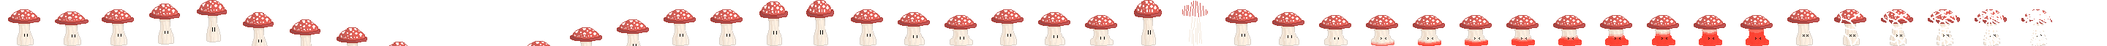
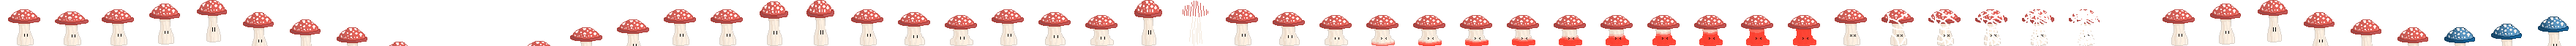
Finished bossfight
All the animations are now in place. There was a bug with the hover that was fixed (still have no clue why it was caused, but it's fine now, soo...)

Also put some band-aids on the unsolved bugs. For the enemies flying OOB, they now should teleport back in. For the enemy colliders getting displaced, I center them every frame. For the player's collider working, I turn it off every frame they do not have the dash.

These are all temporary solutions but I don't want to waste the time finding the bug sources so I'll just do this for now.

diff --git a/src/assets.rs b/src/assets.rs
@@ -337,7 +337,7 @@ impl BossAssets {
         anims.insert(idle_anim.name.to_string(), idle_anim.clone());
 
         // BOOM
-        let boom_atlas = TextureAtlas::from_grid(sheet.clone(), SIZE, 12, 1, None, Some(Vec2::new(26.0, 0.0) * SIZE));
+        let boom_atlas = TextureAtlas::from_grid(sheet.clone(), SIZE, 13, 1, None, Some(Vec2::new(26.0, 0.0) * SIZE));
         let boom_atlas_handle = texture_atlases.add(boom_atlas);
         let mut boom_anim = Animation::new("BOOM".to_string(), boom_atlas_handle, 0.1);
         boom_anim.repeating = false;
@@ -372,17 +372,32 @@ impl BossAssets {
         anims.insert(fly_anim.name.to_string(), fly_anim.clone()); 
         
         // LEAP
-        let leap_atlas = TextureAtlas::from_grid(sheet.clone(), SIZE, 3, 1, None, Some(Vec2::new(21.0, 0.0) * SIZE));
+        let leap_atlas = TextureAtlas::from_grid(sheet.clone(), SIZE, 4, 1, None, Some(Vec2::new(21.0, 0.0) * SIZE));
         let leap_atlas_handle = texture_atlases.add(leap_atlas);
         let mut leap_anim = Animation::new("LEAP".to_string(), leap_atlas_handle, 0.1);
         leap_anim.repeating = false;
         anims.insert(leap_anim.name.to_string(), leap_anim.clone());
 
         // DEATH
-        let death_atlas = TextureAtlas::from_grid(sheet.clone(), SIZE, 7, 1, None, Some(Vec2::new(38.0, 0.0) * SIZE));
+        let death_atlas = TextureAtlas::from_grid(sheet.clone(), SIZE, 7, 1, None, Some(Vec2::new(39.0, 0.0) * SIZE));
         let death_atlas_handle = texture_atlases.add(death_atlas);
         let death_anim = Animation::new("DEATH".to_string(), death_atlas_handle, 0.1);
         anims.insert(death_anim.name.to_string(), death_anim.clone());
+
+
+        // SUMMON
+        let summon_atlas = TextureAtlas::from_grid(sheet.clone(), SIZE, 6, 1, None, Some(Vec2::new(46.0, 0.0) * SIZE));
+        let summon_atlas_handle = texture_atlases.add(summon_atlas);
+        let mut summon_anim = Animation::new("SUMMON".to_string(), summon_atlas_handle, 0.1);
+        summon_anim.repeating = false; 
+        anims.insert(summon_anim.name.to_string(), summon_anim.clone());
+
+        // VULNERABLE
+        let vulnerable_atlas = TextureAtlas::from_grid(sheet.clone(), SIZE, 3, 1, None, Some(Vec2::new(52.0, 0.0) * SIZE));
+        let vulnerable_atlas_handle = texture_atlases.add(vulnerable_atlas);
+        let mut vulnerable_anim = Animation::new("VULNERABLE".to_string(), vulnerable_atlas_handle, 0.2);
+        vulnerable_anim.repeating = false;
+        anims.insert(vulnerable_anim.name.to_string(), vulnerable_anim.clone());
 
         assets.anims = AnimationMap::new(anims);
     }

diff --git a/src/bossfight/abilities/hover.rs b/src/bossfight/abilities/hover.rs
@@ -8,6 +8,7 @@ use crate::combat::Immunity;
 use crate::enemies::Enemy;
 use crate::player::Player;
 use crate::state::GameState;
+use crate::util::{Facing, FacingX};
 
 #[derive(Component, Debug, Clone)]
 pub struct HoverAbility;
@@ -53,6 +54,7 @@ fn hover_update(
         &Boss,
         &mut Immunity,
         &mut Enemy,
+        &mut Facing,
         &BossConfig
     )>
 ) {
@@ -62,7 +64,7 @@ fn hover_update(
 
 
     let player_pos = p.single().translation();
-    let (entity, boss_tf, boss, mut immunity, mut enemy, cfg) = q.single_mut();
+    let (entity, boss_tf, boss, mut immunity, mut enemy, mut facing, cfg) = q.single_mut();
     let boss_pos = boss_tf.translation();
 
     if boss.current_move() != EnragedAttackMove::Hover {
@@ -71,13 +73,19 @@ fn hover_update(
 
     let mut threshold = BOSS_HOVER_CMP_THRESHOLD;
 
-    if player_pos.x < cfg.charge_left.x + BOSS_HALF_SIZE.x
-        || player_pos.x > cfg.charge_right.x + BOSS_HALF_SIZE.x {
-        threshold += BOSS_HALF_SIZE.x;
+    let diff = player_pos.x - boss_pos.x;
+    enemy.vel.x = Vec2::new(diff, 0.0).normalize_or_zero().x * BOSS_HOVER_SPEED;
+
+    if enemy.vel.x < 0.0 {
+        facing.x = FacingX::Left;
+    } else if enemy.vel.x > 0.0 {
+        facing.x = FacingX::Right;
     }
 
-    let diff = player_pos.x - boss_pos.x;
-    enemy.vel.x = Vec2::new(diff, 0.0).normalize().x * BOSS_HOVER_SPEED;
+    if player_pos.x < cfg.charge_left.x
+        || player_pos.x > cfg.charge_right.x {
+        threshold += BOSS_HALF_SIZE.x;
+    }
 
     if diff.abs() <= threshold {
         enemy.vel = Vec2::ZERO;

diff --git a/src/bossfight/summon.rs b/src/bossfight/summon.rs
@@ -1,4 +1,5 @@
 use bevy::prelude::*;
+use bevy_rapier2d::prelude::Collider;
 use rand::prelude::*;
 use crate::bossfight::{Boss, BossConfig};
 use crate::bossfight::consts::{BOSS_BOOM_PARTITION_SIZE, BOSS_SUMMON_COUNT_EASY, BOSS_SUMMON_COUNT_HARD, BOSS_SUMMON_COUNT_MEDIUM};
@@ -54,6 +55,9 @@ pub fn register_boss_summon(app: &mut App) {
             .with_system(enter_summon)
             .with_system(summon_update)
             .with_system(summon_enemies)
+
+            .with_system(reset_escaped_enemies)
+            .with_system(fix_summoned_enemy_colliders)
     );
 }
 
@@ -193,5 +197,32 @@ fn summon_enemies(
             commands.entity(e).insert(FinishedSummoning);
         }
     }
+}
 
+fn reset_escaped_enemies(
+    mut summons: Query<(&mut Transform, &GlobalTransform), With<SummonedEnemy>>,
+    lvl_info: Res<LevelInfo>
+) {
+    for (mut transform, global_tf) in summons.iter_mut() {
+        let pos = global_tf.translation();
+
+        if !lvl_info.bounds().contains(Vec2::new(pos.x, pos.y)) {
+            let mid = lvl_info.grid_size * RENDERED_TILE_SIZE / 2.0;
+            transform.translation.x = mid.x;
+            transform.translation.y = mid.y;
+        }
+    }
+}
+
+fn fix_summoned_enemy_colliders(
+    summons: Query<&Children, With<SummonedEnemy>>,
+    mut colliders: Query<&mut Transform, With<ColliderAttack>>
+) {
+    for children in summons.iter() {
+        for child in children.iter() {
+            if let Ok(mut tf) = colliders.get_mut(*child) {
+                tf.translation = Vec3::ZERO;
+            }
+        }
+    }
 }

diff --git a/src/level/mod.rs b/src/level/mod.rs
@@ -14,13 +14,22 @@ pub mod shop;
 use bevy::prelude::*;
 use bevy_rapier2d::prelude::*;
 use bevy_ecs_ldtk::prelude::*;
-use crate::level::consts::TILE_SIZE;
+use crate::level::consts::{RENDERED_TILE_SIZE, TILE_SIZE};
+use crate::pathfind::Region;
 use crate::state::GameState;
 
 #[derive(Resource, Default, Copy, Clone)]
 pub struct LevelInfo {
-    pub cell_size: Vec2,
     pub grid_size: Vec2,
+}
+
+impl LevelInfo {
+    pub fn bounds(&self) -> Region {
+        Region {
+            tl: Vec2::new(0.0, self.grid_size.y * RENDERED_TILE_SIZE),
+            br: Vec2::new(self.grid_size.x * RENDERED_TILE_SIZE, 0.0)
+        }
+    }
 }
 
 #[derive(Component, Default)]
@@ -114,9 +123,7 @@ pub fn refresh_level(
     }
 
     let lvl = assets.get(levels.single()).unwrap().get_level(&sel).unwrap();
-
-    lvl_info.cell_size = Vec2::new(TILE_SIZE, TILE_SIZE);
-    lvl_info.grid_size = IVec2::new(lvl.px_wid, lvl.px_hei).as_vec2() / lvl_info.cell_size;
+    lvl_info.grid_size = IVec2::new(lvl.px_wid, lvl.px_hei).as_vec2() / TILE_SIZE;
 }
 
 pub fn reconfigure_region_to_fit_level(
@@ -124,7 +131,7 @@ pub fn reconfigure_region_to_fit_level(
     lvl_info: Res<LevelInfo>
 ) {
     for (mut region, mut collider) in region.iter_mut() {
-        let half_extents = (lvl_info.grid_size * lvl_info.cell_size) / 2.0;
+        let half_extents = (lvl_info.grid_size * TILE_SIZE) / 2.0;
         region.translation = Vec3::new(half_extents.x, half_extents.y, 0.0);
         *collider = Collider::cuboid(half_extents.x + 10.0, half_extents.y + 10.0);
     }

diff --git a/src/bossfight/anim.rs b/src/bossfight/anim.rs
@@ -5,7 +5,7 @@ use crate::bossfight::abilities::{RelocateAbility, RestAbility, SlamAbility};
 use crate::bossfight::Boss;
 use crate::bossfight::enraged::EnragedAttackMove;
 use crate::bossfight::stage::BossStage::Enraged;
-use crate::bossfight::state_machine::{Boom, Hover, Relocate, Rest, Slam, Takeoff};
+use crate::bossfight::state_machine::{BeginVulnerable, Boom, Hover, Relocate, Rest, Slam, Summon, Takeoff};
 use crate::state::GameState;
 use crate::entity_states::*;
 
@@ -19,7 +19,34 @@ pub fn register_boss_animations(app: &mut App) {
             .with_system(boss_anim_early_flight)
             .with_system(boss_anim_hover)
             .with_system(boss_anim_rest)
+            .with_system(boss_anim_summon)
+            .with_system(boss_anim_vulnerable)
     );
+}
+
+
+fn boss_anim_summon(
+    q: Query<(&AnimationMap, Entity), (Added<Summon>, With<Boss>, Without<Die>)>,
+    mut ev: EventWriter<AnimationChangeEvent>
+) {
+    for (anims, boss) in q.iter() {
+        ev.send(AnimationChangeEvent {
+            e: boss,
+            new_anim: anims["SUMMON"].clone()
+        });
+    }
+}
+
+fn boss_anim_vulnerable(
+    q: Query<(&AnimationMap, Entity), (Added<BeginVulnerable>, With<Boss>, Without<Die>)>,
+    mut ev: EventWriter<AnimationChangeEvent>
+) {
+    for (anims, boss) in q.iter() {
+        ev.send(AnimationChangeEvent {
+            e: boss,
+            new_anim: anims["VULNERABLE"].clone()
+        });
+    }
 }
 
 fn boss_anim_hover(

diff --git a/src/player/abilities/dash.rs b/src/player/abilities/dash.rs
@@ -50,6 +50,7 @@ pub fn register_dash_ability(app: &mut App) {
             .with_system(dash_ability_trigger)
             .with_system(dash_ability_update)
             .with_system(dash_ability_cooldown_update)
+            .with_system(dash_ability_remove_collider)
     );
 }
 
@@ -111,6 +112,22 @@ fn dash_ability_trigger(
     } else {
         // Player already has requested direction
         player.vel.x = Vec2::new(player.vel.x, 0.0).normalize().x * dash.speed;
+    }
+}
+
+fn dash_ability_remove_collider(
+    mut p: Query<&mut ColliderAttack>,
+    q: Query<&Children, (With<Player>, Without<Dash>, Without<Die>)>
+) {
+    if q.is_empty() {
+        return;
+    }
+
+    let children = q.single();
+    for child in children.iter() {
+        if let Ok(mut atk) = p.get_mut(*child) {
+            atk.enabled = false;
+        }
     }
 }
 

diff --git a/src/bossfight/mod.rs b/src/bossfight/mod.rs
@@ -11,6 +11,7 @@ mod anim;
 
 use bevy::prelude::*;
 use bevy_debug_text_overlay::screen_print;
+use bevy_ecs_ldtk::GridCoords;
 use seldom_state::prelude::*;
 use bevy_rapier2d::prelude::*;
 use crate::assets::BossAssets;
@@ -175,7 +176,7 @@ impl BossBundle {
 
             sprite_sheet: SpriteSheetBundle {
                 sprite: TextureAtlasSprite {
-                    custom_size: Some(Vec2::new(512.0, 512.0)),
+                    custom_size: Some(Vec2::new(528.0, 528.0)),
                     ..default()
                 },
 
@@ -226,7 +227,6 @@ pub fn print_stage(
         );
     }
 }
-
 
 pub fn boss_start_idling(mut q: Query<&mut Enemy, (With<Boss>, Added<Idle>)>) {
     for mut enemy in q.iter_mut() {

diff --git a/src/bossfight/state_machine.rs b/src/bossfight/state_machine.rs
@@ -30,7 +30,8 @@ pub fn boss_state_machine() -> StateMachine {
         .trans::<Idle>(HurtTrigger, Hurt)
 
         .trans::<Idle>(SummonTrigger, Summon)
-        .trans::<Summon>(VulnerableTrigger, Vulnerable)
+        .trans::<Summon>(VulnerableTrigger, BeginVulnerable)
+        .trans::<BeginVulnerable>(AlwaysTrigger, Vulnerable)
         .trans::<Vulnerable>(SummonTrigger, Summon)
 
         .trans::<Vulnerable>(HurtTrigger, Hurt)
@@ -100,6 +101,9 @@ pub struct Vulnerable;
 
 #[derive(Component, Copy, Clone, Reflect)]
 pub struct BeginEnraged;
+
+#[derive(Component, Copy, Clone, Reflect)]
+pub struct BeginVulnerable;
 
 #[derive(Component, Copy, Clone, Reflect)]
 pub struct PickNextMove;

diff --git a/src/bossfight/abilities/rest.rs b/src/bossfight/abilities/rest.rs
@@ -97,7 +97,7 @@ fn start_resting(
 
             indicators.send(Indicator {
                 region,
-                wait_time: 1.5,
+                wait_time: 1.2,
                 expand_time: 0.5,
                 ..Indicator::ATTACK
             });
@@ -117,7 +117,7 @@ fn start_resting(
                             cfg.slam_base.y - BOSS_HALF_SIZE.y
                         )
                     },
-                    wait_time: 1.0,
+                    wait_time: 0.4,
                     expand_time: 0.2,
                     ..Indicator::ATTACK
                 }

diff --git a/src/entry.rs b/src/entry.rs
@@ -41,9 +41,9 @@ impl Plugin for ShadePlugin {
 
             // physics
             .add_plugin(RapierPhysicsPlugin::<NoUserData>::pixels_per_meter(100.0))
-            // .add_plugin(RapierDebugRenderPlugin::default())
+            .add_plugin(RapierDebugRenderPlugin::default())
             .add_plugin(EguiPlugin)
-            // .add_plugin(WorldInspectorPlugin::new())
+            .add_plugin(WorldInspectorPlugin::new())
             .add_plugin(EasingsPlugin)
 
             .add_plugin(bevy_debug_text_overlay::OverlayPlugin::default())

diff --git a/src/bossfight/consts.rs b/src/bossfight/consts.rs
@@ -1,7 +1,7 @@
 use bevy::prelude::*;
 
 pub const BOSS_FULL_SIZE: Vec2 = Vec2::new(256.0, 512.0);
-pub const BOSS_HALF_SIZE: Vec2 = Vec2::new(128.0, 256.0);
+pub const BOSS_HALF_SIZE: Vec2 = Vec2::new(120.0, 256.0);
 pub const BOSS_HEAD_HALF_SIZE: Vec2 = Vec2::new(48.0, BOSS_HALF_SIZE.x);
 
 pub const BOSS_CHARGE_SPEED: f32 = 32.0;

diff --git a/src/bossfight/abilities/charge.rs b/src/bossfight/abilities/charge.rs
@@ -98,7 +98,7 @@ fn charge_update(
         _ => panic!()
     };
 
-    if (target - pos.x).abs() <= 2.0 {
+    if (target - pos.x).abs() <= 8.0 {
         commands.entity(entity).insert(Done::Success);
 
         for child in children {
